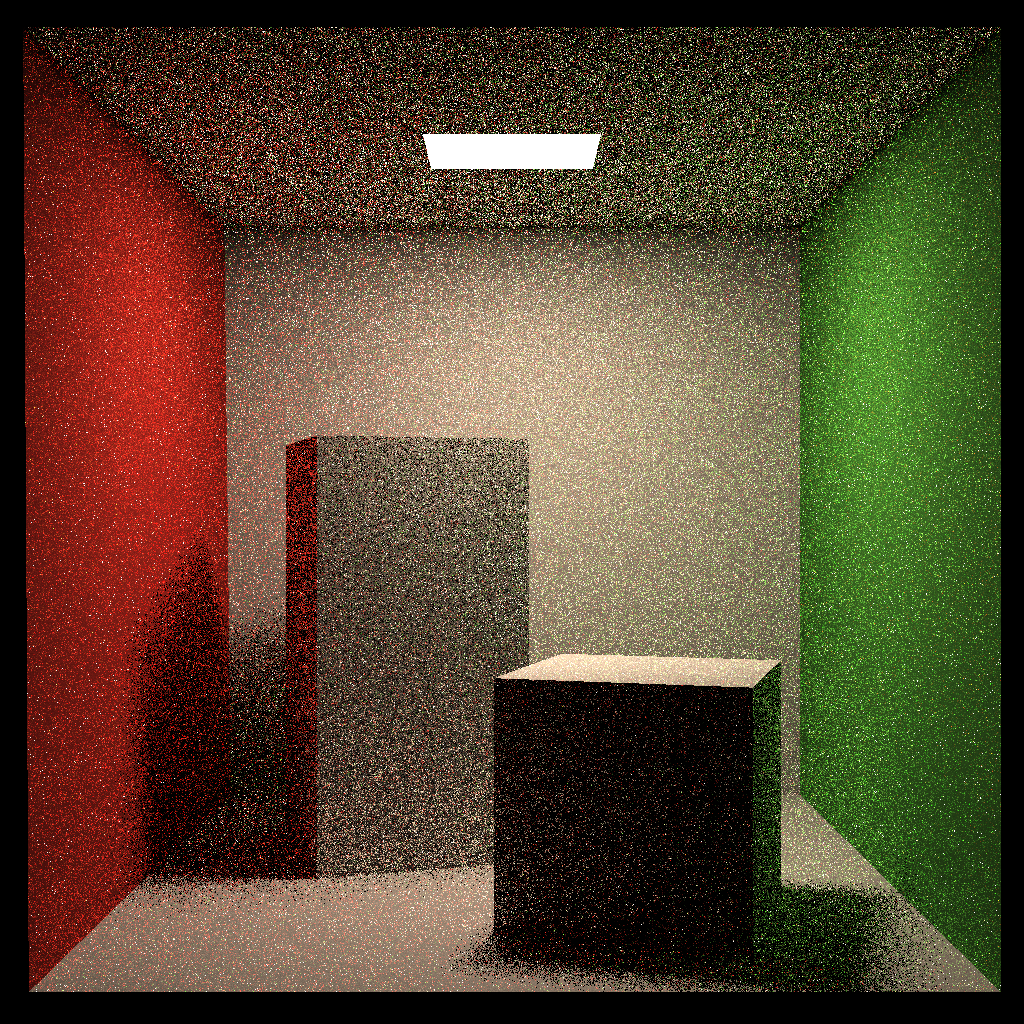
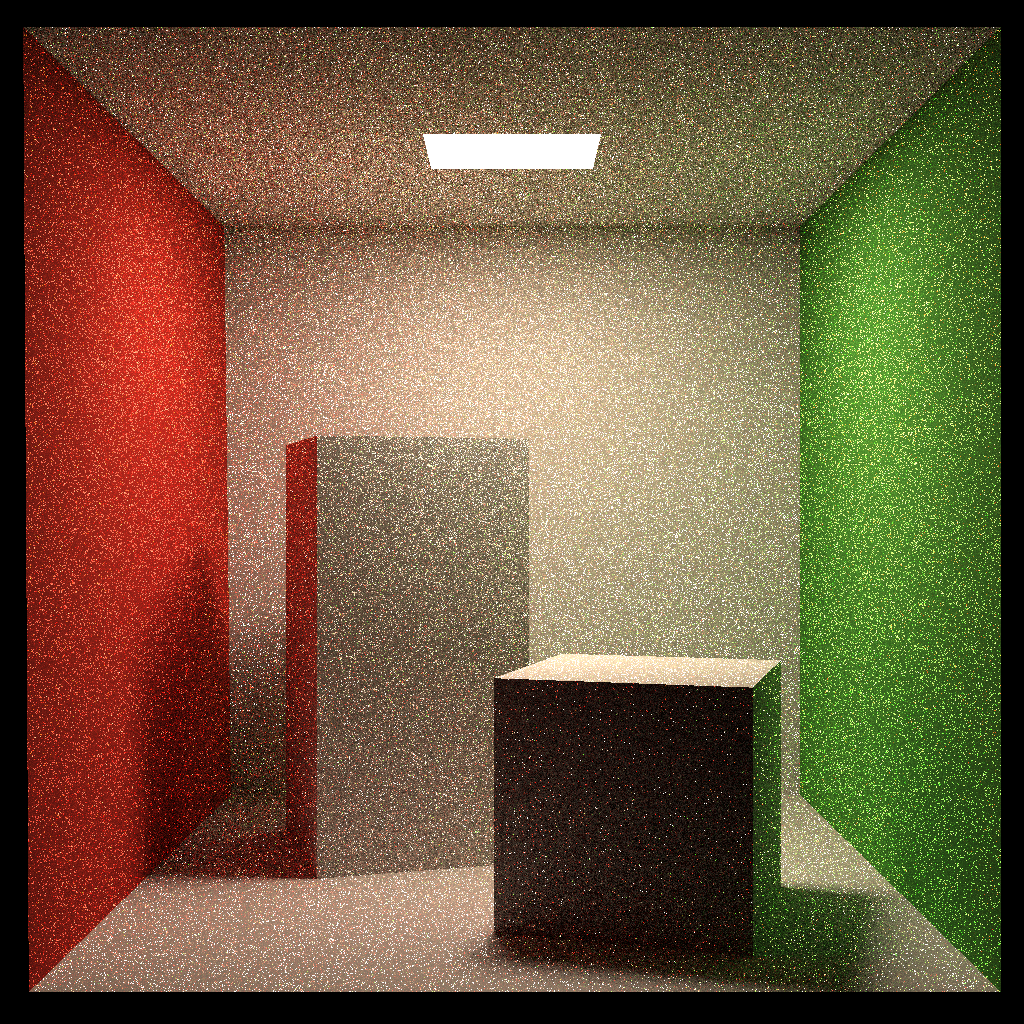
update assignment 7

diff --git a/Assignment7/Renderer.cpp b/Assignment7/Renderer.cpp
@@ -3,7 +3,7 @@
 #define STB_IMAGE_WRITE_IMPLEMENTATION
 #include "stb_image_write.h"
 
-void Renderer::render(const Scene& scene) {
+void Renderer::render(const Scene& scene, unsigned int spp) {
     const auto scene_size = scene.width() * scene.height();
     std::vector<Vector3f> framebuffer(scene_size);
 
@@ -11,17 +11,25 @@ void Renderer::render(const Scene& scene) {
     float image_aspect_ratio = static_cast<float>(scene.width()) / static_cast<float>(scene.height());
 
     // Use this variable as the eye position to start your rays.
-    Vector3f eye_pos(278, 273, -800);
+    const Vector3f eye_pos(278, 273, -800);
+
+    std::cout << "SPP: " << spp << std::endl;
+
     int pixel_idx = 0;
-    for (uint32_t j = 0; j < scene.height(); ++j) {
-        for (uint32_t i = 0; i < scene.width(); ++i) {
+    for (unsigned int j = 0; j < scene.height(); ++j) {
+        for (unsigned int i = 0; i < scene.width(); ++i) {
             // generate primary ray direction
             const auto x = (2 * (static_cast<float>(i) + 0.5f) / static_cast<float>(scene.width()) - 1.0f) * scale * image_aspect_ratio;
             const auto y = (1.0f - 2 * (static_cast<float>(j) + 0.5f) / static_cast<float>(scene.height())) * scale;
 
             const auto dir = Vector3f(-x, y, 1.0f).normalized();
             const Ray ray(eye_pos, dir);
-            framebuffer[pixel_idx++] = cast_ray(scene, ray);
+
+            Vector3f color(0.0f);
+            for (int k = 0; k < spp; k++){
+                color += cast_ray(scene, ray);
+            }
+            framebuffer[pixel_idx++] = color / static_cast<float>(spp);
         }
         update_progress(static_cast<float>(j) / static_cast<float>(scene.height()));
     }
@@ -31,8 +39,8 @@ void Renderer::render(const Scene& scene) {
 
     // save frame buffer to file with tools from stb library
     const std::string output_file_name("output.png");
-    constexpr int channel_num = 3;
-    const int image_size = scene_size * channel_num;
+    constexpr unsigned int channel_num = 3;
+    const unsigned int image_size = scene_size * channel_num;
 	const size_t stride_in_bytes = scene.width() * channel_num * sizeof(unsigned char);
     const std::unique_ptr<unsigned char[]> pixel_data_ptr(new unsigned char[image_size]);
 
@@ -43,7 +51,7 @@ void Renderer::render(const Scene& scene) {
 		pixel_data_ptr[idx++] = static_cast<unsigned char>(255.0f * std::pow(clamp(0, 1, framebuffer[i].z), 0.6f));
     }
 
-    stbi_write_png(output_file_name.c_str(), scene.width(), scene.height(), channel_num, pixel_data_ptr.get(), stride_in_bytes); 
+    stbi_write_png(output_file_name.c_str(), static_cast<int>(scene.width()), static_cast<int>(scene.height()), channel_num, pixel_data_ptr.get(), stride_in_bytes);
 }
 
 Vector3f Renderer::cast_ray(const Scene& scene, const Ray& ray) const {

diff --git a/Assignment7/Scene.hpp b/Assignment7/Scene.hpp
@@ -10,10 +10,10 @@
 class Scene {
 public:
     Scene() = default;
-    Scene(int w, int h) : _width(w), _height(h) {}
+    Scene(unsigned int w, unsigned int h) : _width(w), _height(h) {}
 
-    int width() const { return _width; }
-    int height() const { return _height; }
+    unsigned int width() const { return _width; }
+    unsigned int height() const { return _height; }
     float fov() const { return _fov; }
     Vector3f background_color() const { return _background_color; }
     float russian_roulette() const { return _russian_roulette; }
@@ -29,8 +29,8 @@ public:
     [[nodiscard]] std::optional<Sample> sample_light_sources() const;
 
 private:
-    int _width = 1280;
-    int _height = 960;
+    unsigned int  _width = 1280;
+    unsigned int  _height = 960;
     float _fov = 40.0f;
     Vector3f _background_color = { 0.0f, 0.0f, 0.0f };
     float _russian_roulette = 0.8f;

diff --git a/Assignment7/main.cpp b/Assignment7/main.cpp
@@ -11,6 +11,7 @@
 // function().
 int main(int argc, char** argv) {
     Scene scene(1024, 1024);
+    constexpr unsigned int spp = 16;
 
     const auto red_mat_ptr = std::make_shared<Material>(Material_type::DIFFUSE, Vector3f(0.0f), 0.0f, Vector3f(0.63f, 0.065f, 0.05f), 0.0f, 0.0f);
     const auto green_mat_ptr = std::make_shared<Material>(Material_type::DIFFUSE, Vector3f(0.0f), 0.0f, Vector3f(0.14f, 0.45f, 0.091f), 0.0f, 0.0f);
@@ -54,7 +55,7 @@ int main(int argc, char** argv) {
 
     std::cout << " - Rendering Scene..." << std::endl;
     const auto start = std::chrono::system_clock::now();
-    r.render(scene);
+    r.render(scene, spp);
     const auto stop = std::chrono::system_clock::now();
 
     std::cout << "Render complete: \n";

diff --git a/Assignment7/Renderer.hpp b/Assignment7/Renderer.hpp
@@ -7,7 +7,9 @@ public:
     // The main render function. This where we iterate over all pixels in the image,
     // generate primary rays and cast these rays into the scene. The content of the
     // framebuffer is saved to a png image file with tools from stb library.
-    void render(const Scene& scene);
+    //
+    // Change the spp value to change sample amount.
+    void render(const Scene& scene, unsigned int spp);
 
 private:
     // Implementation of the path tracing algorithm

diff --git a/Assignment7/Triangle.hpp b/Assignment7/Triangle.hpp
@@ -6,7 +6,7 @@
 #include "BVH.hpp"
 #include "Intersection.hpp"
 #include "Material.hpp"
-#include "OBJ_Loader.hpp"
+#include "OBJ_Loader.h"
 #include "Object.hpp"
 
 class Triangle : public Object, public std::enable_shared_from_this<Triangle> {

diff --git a/Assignment7/README.md b/Assignment7/README.md
@@ -31,6 +31,6 @@ make
 
 ## Image
 
-Cornellbox scene with only basic diffuse material and global illumination (1 spp).
+Cornellbox scene with only basic diffuse material and global illumination (16 spp).
 
 ![output](image/output.png)

diff --git a/README.md b/README.md
@@ -47,4 +47,8 @@ Implement both rasterization and ray tracing.
 
   
 
+* Path Tracing (implement global illumination with BRDF)
+
+  ![Assignment6](Assignment7/image/output.png)
+
 * // todo
